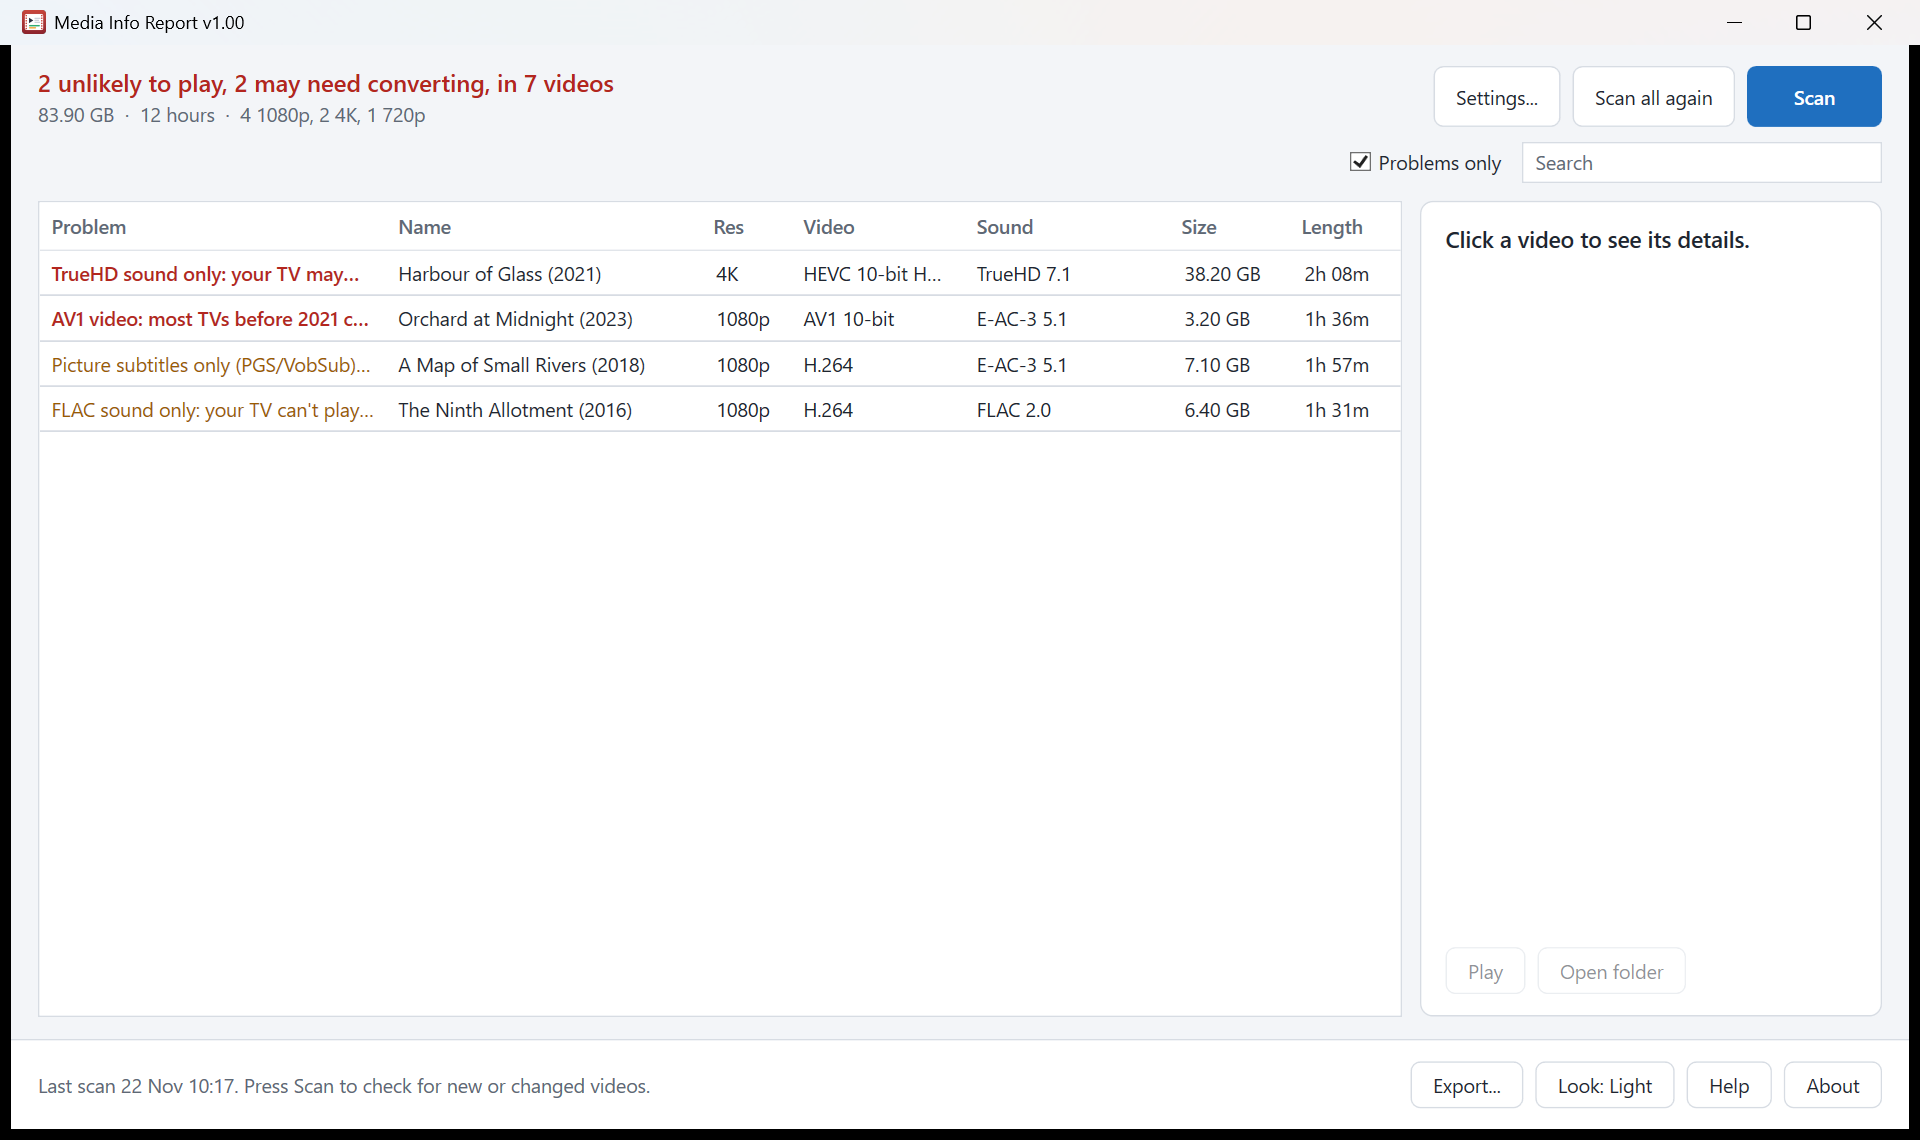
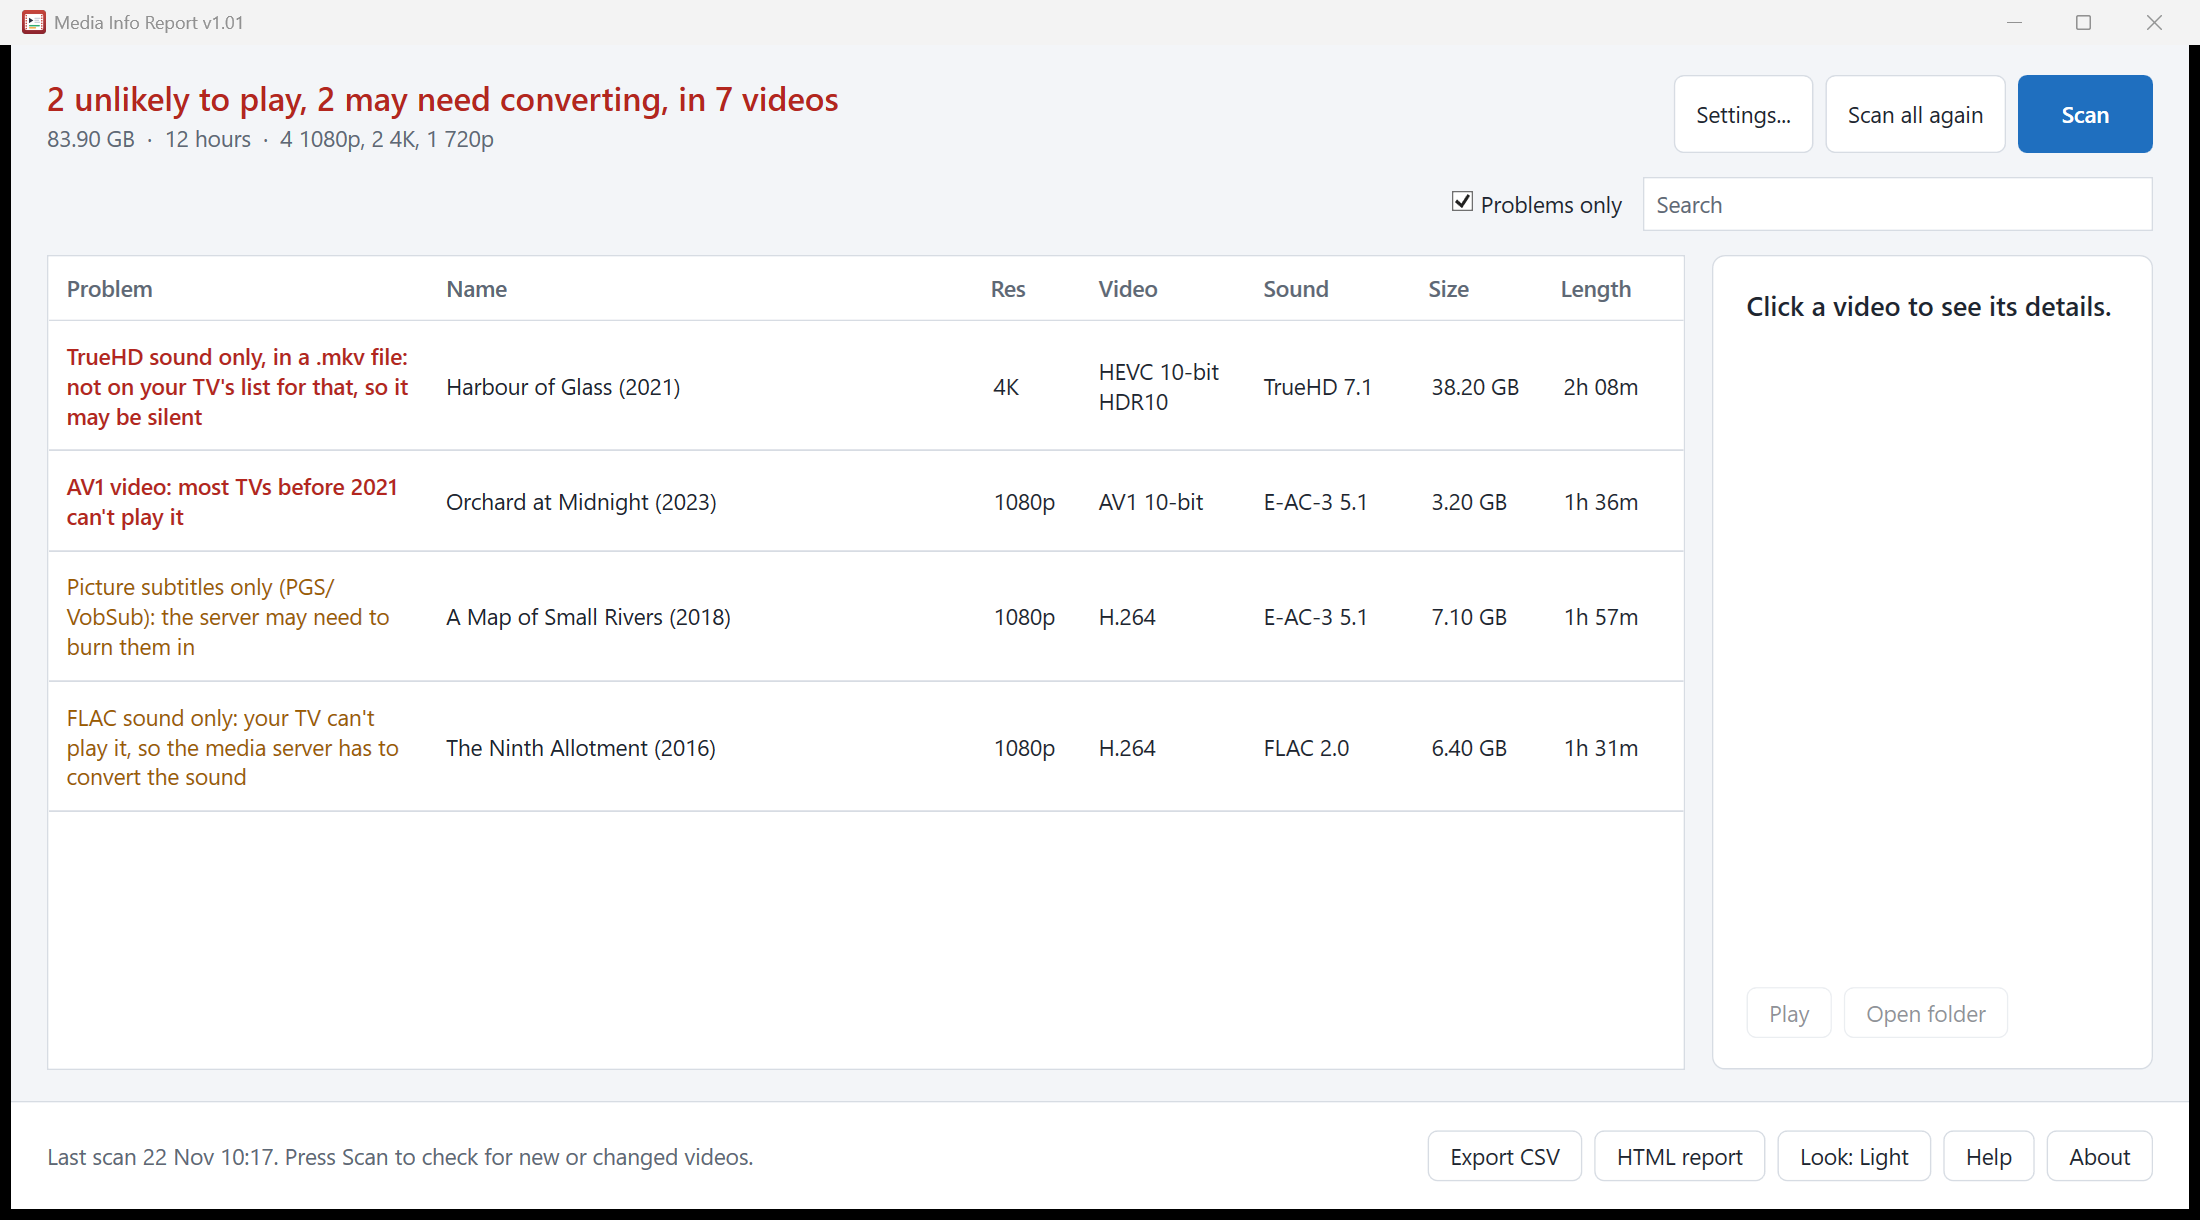
Roomier window, export buttons and Excel-safe CSV (v1.01)
The window opens over most of the screen with bigger text and rows, and long
names and problems wrap. Export CSV and HTML report are separate buttons. The
CSV opens as typed in Excel, the status line says when only some videos were
exported, and an export with nothing to save says why.

diff --git a/README.md b/README.md
@@ -6,7 +6,7 @@
 
 Resolution, codecs, audio and size for every video, and which ones a TV may not play.
 
-![Version](https://img.shields.io/badge/version-v1.00-blue) ![Platform](https://img.shields.io/badge/platform-Windows-0078D6) ![PowerShell](https://img.shields.io/badge/PowerShell-5.1-5391FE) ![Licence](https://img.shields.io/badge/licence-MIT-green) ![Last commit](https://img.shields.io/github/last-commit/jason4bury/Media-Info-Report)
+![Version](https://img.shields.io/badge/version-v1.01-blue) ![Platform](https://img.shields.io/badge/platform-Windows-0078D6) ![PowerShell](https://img.shields.io/badge/PowerShell-5.1-5391FE) ![Licence](https://img.shields.io/badge/licence-MIT-green) ![Last commit](https://img.shields.io/github/last-commit/jason4bury/Media-Info-Report)
 
 
 ## ✨ Features
@@ -18,7 +18,9 @@ Media Info Report is a PowerShell/WPF tool that lists every video in your folder
 - **Ready-made TVs**: Sony BRAVIA XR-42A90K (2022) (video and sound formats from Sony's list for that TV), plus general guides for a typical 4K HDR smart TV, a recent 4K TV with AV1 and Dolby Vision, and an older HD TV. A tick for a sound bar or AV receiver on eARC lets TrueHD and DTS-HD sound through. For TVs that read DTS only from MKV files, as the XR-42A90K does, DTS-only sound in other files is flagged.
 - **File-type checks for the XR-42A90K**: each file is checked against [Sony's list](https://helpguide.sony.net/tv/jaep1/v1/en/04-01-03_03.html) of the video, sound and picture size each file type can hold. That list is for the TV's own player; apps on the TV may play more, and frame rates, levels and sample rates aren't checked.
 - **Quick, and quicker next time**: four files are read at a time in the background, and the results are kept, so a later scan only reads new or changed files.
-- **Reports**: Export... saves the list (or just what you've filtered) as an HTML report, coloured red, amber and green, with search, sorting and a Problems only switch, to open in any browser, print or share; or as a CSV file for Excel.
+- **Export CSV**: saves the videos shown in the list as a CSV file for Excel and other spreadsheets (untick Problems only and clear the search to save them all).
+- **Excel-safe CSV**: opens correctly with a double-click, with names such as 1917, 007 or 3-10 as typed. Such names are written as `="1917"` in the file, which programs other than spreadsheets will show as they are; ordinary titles are untouched.
+- **HTML report**: saves the same videos as a page, coloured red, amber and green, with search, sorting and a Problems only switch, to open in any browser, print or share.
 - Totals (size, hours, how many 4K / 1080p), Problems only, search, Play and Open folder, light and dark looks, Help and an About box.
 
 ## 🖼 Screenshots
@@ -33,7 +35,7 @@ Media Info Report is a PowerShell/WPF tool that lists every video in your folder
 
 ## 📦 Installation
 
-1. Download `Media-Info-Report-v1.00.zip` from the [latest release](../../releases/latest) and unzip it wherever you like to keep it.
+1. Download `Media-Info-Report-v1.01.zip` from the [latest release](../../releases/latest) and unzip it wherever you like to keep it.
 2. Double-click **Media Info Report.cmd** in the unzipped folder. It makes a **Media Info Report** shortcut there and in the Start menu, and starts the tool. From then on, use the shortcut, the Start menu or a pinned taskbar button.
 
 Nothing is installed and no Windows settings are changed. The shortcut runs the script with PowerShell's execution policy bypassed for that run only.

diff --git a/CHANGELOG.md b/CHANGELOG.md
@@ -6,6 +6,17 @@ All notable changes to this project are documented here. The format follows
 
 ## [Unreleased]
 
+## [1.01] - 2026-11-22
+
+### Changed
+- **Roomier window**: it opens over most of the screen, with bigger text and rows. Long names and
+  problems wrap so they can be read in full, and the details panel widens with the window.
+- **Export CSV** and **HTML report** are two buttons, instead of file types inside Export...
+- **Excel-safe CSV**: names such as 1917, 007 or 3-10 aren't turned into numbers or dates, and names
+  starting with = + or - can't run as a formula.
+- The status line says when an export holds only some of the videos (Problems only or a search),
+  and an export with nothing to save says why.
+
 ## [1.00] - 2026-11-22
 First release.
 
